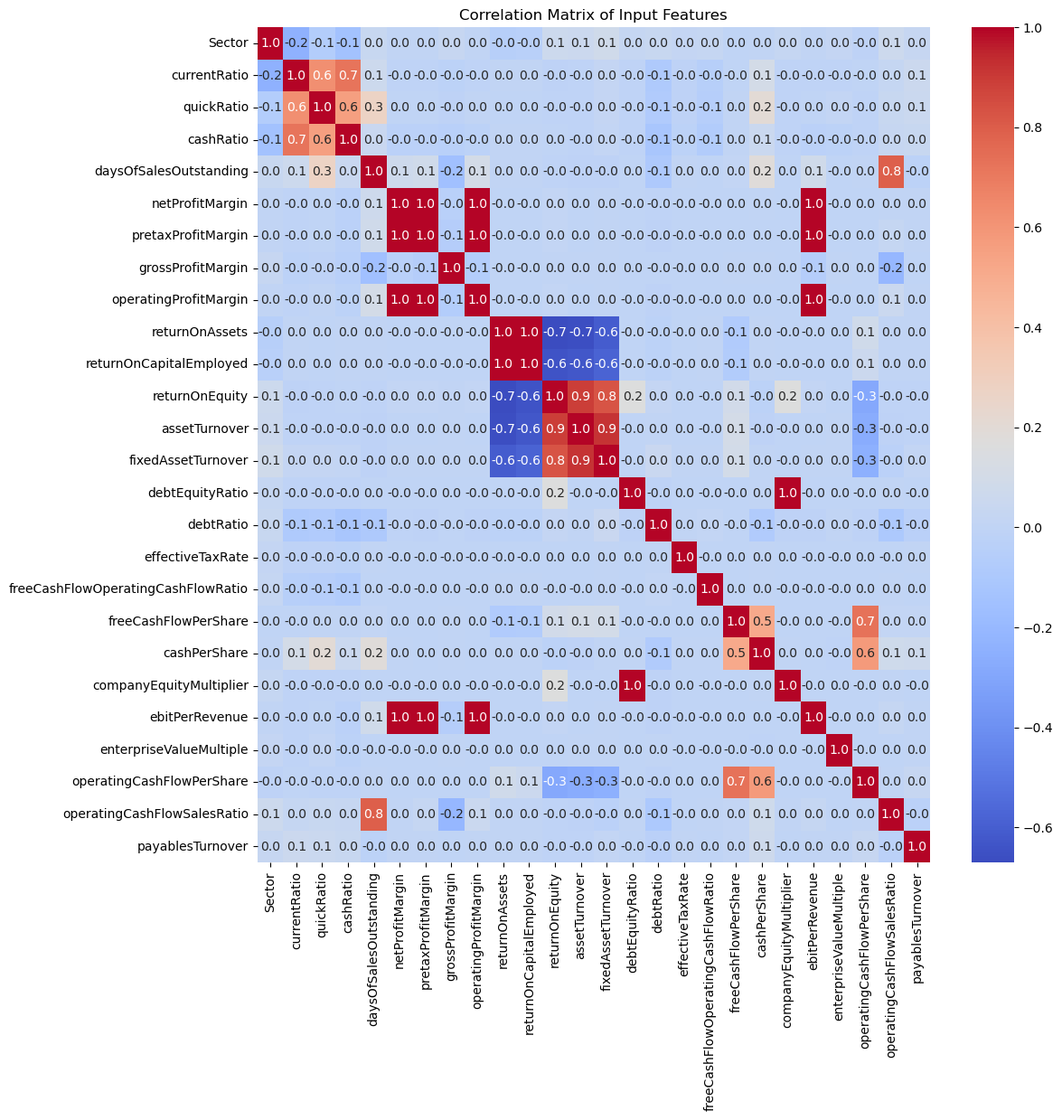
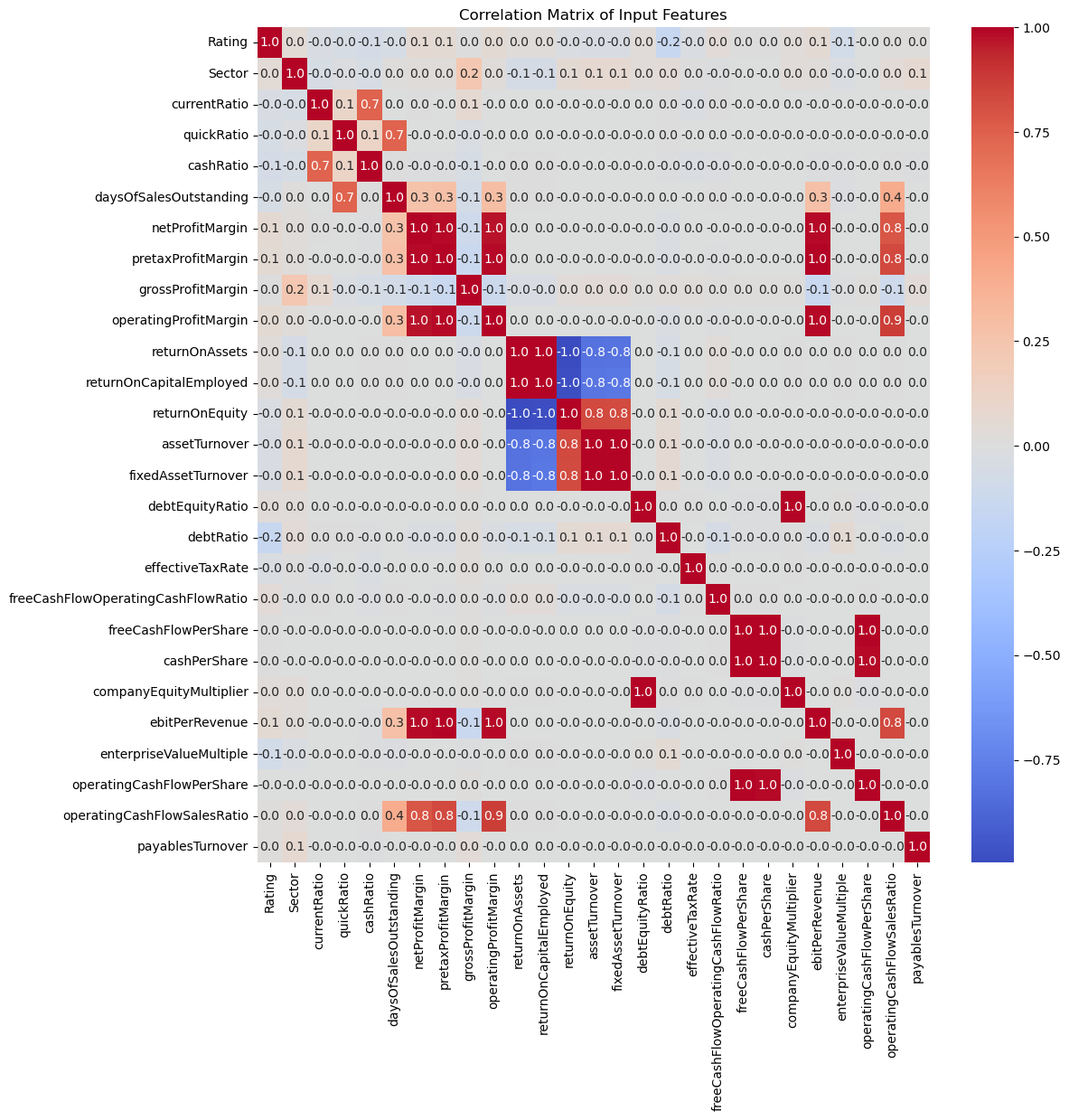
final credit rating

diff --git a/_posts/2024-01-01-credit-rating-forecast.md b/_posts/2024-01-01-credit-rating-forecast.md
@@ -21,19 +21,19 @@ tags:
 [![](https://img.shields.io/badge/GitHub-View_Repository-blue?logo=GitHub)](https://github.com/monishagopalan/credit-rating-forecast)
 
 # Introduction
-Corporate credit ratings, issued by credit rating agencies like Standard and Poor's and Moody's, express the agency's opinion about the ability of a company to meet its debt obligations.  Typically, ratings are expressed as letter grades that range, for example, from ‘AAA’ to ‘D’ to communicate the agency’s opinion of relative level of credit risk.
+Corporate credit ratings, issued by credit rating agencies like Standard & Poor's and Moody's, express the agency's opinion about the ability of a company to meet its debt obligations.  Typically, ratings are expressed as letter grades that range, for example, from ‘AAA’ to ‘D’ to communicate the agency’s opinion of relative level of credit risk. Credit ratings are not absolute measures of Default Probability. For example, a corporate bond that is rated ‘AA’ is viewed by the rating agency as having a higher credit quality than a corporate bond with a ‘BBB’ rating. But the ‘AA’ rating isn’t a guarantee that it will not default, only that, in the agency’s opinion, it is less likely to default than the ‘BBB’ bond.
 
-Credit Ratings are not absolute measures of Default Probability. For example, a corporate bond that is rated ‘AA’ is viewed
-by the rating agency as having a higher credit quality than a corporate bond with a ‘BBB’ rating. But the ‘AA’ rating isn’t a
-guarantee that it will not default, only that, in the agency’s opinion, it is less likely to default than the ‘BBB’ bond.
+Investors and other market participants may use these
+ratings as a screening device to match the relative credit risk of an issuer or individual debt issue with
+their own risk tolerance or credit risk guidelines in making investment and business decisions. For instance, in considering the purchase of a corporate bond, an investor may check to see whether the bond’s credit rating aligns with their acceptable level of credit risk. At the same time, credit ratings may be used by corporations to help them raise money for expansion and/or research and development.
 
-Each agency applies its own methodology to measure creditworthiness and this assessment is an expensive and complicated process. Usually, the agencies take time to provide new ratings and update older ones. This causes delays in decision-making process for investors who use these ratings to assess their credit risk. 
+Each credit rating agency applies its own methodology to measure creditworthiness and this assessment is an expensive and complicated process. Usually, the agencies take time to provide new ratings and update older ones. This causes delays in decision-making process for the investors.
 
-One solution to address delays would be to use the historical financial information of a company to build a predictive quantitative model capable of forecasting the credit rating that a company will receive. In this project, I employ machine learning techniques, creating classification models that quickly forecast credit ratings. 
+One solution to address these delays would be to use the historical financial information of a company to build a predictive quantitative model capable of forecasting the credit rating that a company will receive. In this project, machine learning techniques have been utilized to create classification models capable of rapidly forecasting credit ratings. Machine learning stands out in this context due to its adaptability and ability to capture complex patterns in data, providing a more dynamic and responsive approach compared to traditional quantitative models.
 
 # Dataset
 
-The [Corporate Credit Rating](https://www.kaggle.com/datasets/agewerc/corporate-credit-rating/data) dataset is obtained from Kaggle. The dataset loaded as a pandas dataframe, `ratings_df` consists of 2029 entries (rows) and 31 columns. Each entry represents a big US firm traded on NYSE or Nasdaq. The ratings span the period from 2010 to 2016. The dataset has 593 unique US firms, as seen from `ratings_df.Name.value_counts()`.    
+The [Corporate Credit Rating](https://www.kaggle.com/datasets/agewerc/corporate-credit-rating/data) dataset was obtained from Kaggle. The dataset loaded as a pandas dataframe, `ratings_df`, consists of 2029 entries (rows) and 31 columns. Each entry represents a big US firm traded on NYSE or Nasdaq. The ratings span the period from 2010 to 2016. The dataset has 593 unique US firms, as seen from `ratings_df.Name.value_counts()`.    
 
 ## Credit Ratings
 The target variable is the `Rating` column, representing the credit rating assigned by agencies. Taking a closer look at the list of agencies and their different ratings using `ratings_df['Rating Agency Name'].value_counts()` and `ratings_df.groupby('Rating Agency Name')['Rating'].unique()`:
@@ -42,7 +42,7 @@ The target variable is the `Rating` column, representing the credit rating assig
 
 The dataset shows an imbalance in credit ratings, with varying frequencies for each rating category as it is evident from `ratings_df.Rating.value_counts()`.
 
-In addition, we are working with ratings from different agencies. One way to address this is to simplify and merge the ratings labels according to the following table from [Investopedia: Corporate Credit Ratings](https://www.investopedia.com/terms/c/corporate-credit-rating.asp)
+An additional challenge is that we have ratings from different agencies. This was addressed by simplifying and merging the ratings labels according to the following table from [Investopedia: Corporate Credit Ratings](https://www.investopedia.com/terms/c/corporate-credit-rating.asp)
 
 | Moody's     | Standard & Poor's |  Fitch            |   Grade      | Risk         |
 |-------------|-------------------|-------------------|--------------|--------------|
@@ -54,7 +54,7 @@ In addition, we are working with ratings from different agencies. One way to add
 | Caa/Ca      | CCC/CC/C          | CCC/CC/C          | Junk         | Highest Risk |
 | C           | D                 | D                 | Junk         | In Default   |
 
-Instead of 10 different rating categories, we have now 6 categories. Using a dictionary for the mapping of new ratings and old ratings and `ratings_df['Rating'].map(rating_dict)` we have
+A dictionary was used for the mapping of new ratings and old ratings and `ratings_df['Rating'].map(rating_dict)` and we have regrouped the 10 different rating categories into 6 new categories.
 
 |(New) Rating    | Counts | (Old) Ratings   |
 |----------------|--------|-----------------|
@@ -72,11 +72,11 @@ The categorical variable `Rating` was converted into numerical labels using the 
 ## Input Features
 The other columns in the dataset are the input features related to financial indicators and information about the company. 
 
-The 5 features with the company information such as `Name`, `Symbol` (for trading), `Rating Agency Name`, `Date`, and `Sector` provide context and additional details for analysis but their inclusion in the model may not be necessary for the specific task of credit rating prediction.  However, it is important to include the `Sector` feature in our model is crucial for capturing industry-specific nuances that significantly influence a company's financial performance and risk profile. Different sectors exhibit distinct economic characteristics and respond differently to market conditions. By incorporating the `Sector` variable, we aim to enhance the granularity of our analysis, ensuring that the machine learning model discerns sector-specific trends and challenges.
+The 5 features with the _company information_ such as `Name`, `Symbol` (for trading), `Rating Agency Name`, `Date`, and `Sector` provide context and additional details for analysis but their inclusion in the model may not be necessary for the specific task of credit rating prediction.  However, the `Sector` feature has been included in our model as it is crucial for capturing industry-specific nuances that significantly influence a company's financial performance and risk profile. 
 
-In order to integrate the categorical data `Sector` it into the model, `LabelEncoder` is employed to represent it numerically.
+In order to integrate the categorical data `Sector` into the model, `LabelEncoder` was employed to represent it numerically.
 
-The dataset includes 25 financial indicators that can be categorized into different groups. These financial indicators collectively provide a comprehensive view of a company's financial health and performance, contributing to the evaluation of its creditworthiness.
+The dataset includes 25 _financial indicators_ that can be categorized into different groups. These financial indicators collectively provide a comprehensive view of a company's financial health and performance, contributing to the evaluation of its creditworthiness.
 
 **(I) Liquidity Measurement Ratios**
 These ratios provide insights into a company's short-term financial health and ability to meet its immediate obligations.
@@ -125,25 +125,28 @@ These ratios delve into a company's cash flow dynamics, providing insights into 
 
 ## Descriptive Statistics
 
+The correlation matrix `ratings_df.corr()` was calculated to understand the pairwise correlations between different variables in the dataset. A correlation value close to 1 indicates a strong positive correlation, while a value close to -1 indicates a strong negative correlation. From the figure below, it is seen that the target `Rating` has low correlation with almost all of the input features. It is also observed that companies with higher Return on Equity tend to also have higher Asset Turnover and Fixed Asset Turnover, indicating that they efficiently use their assets, both overall and fixed assets, to generate profits.
+
 ![png](/assets/images/credit-rating/corr-matrix.png)
 
-The function `data.describe()` gives statistical descriptions like `mean`, `min`, `max`, `percentiles` of the numerical financial indicators. Comparison of the mean to the median and examining the range between percentiles, there seems to be an indication of the presence of outliers. 
+The `describe()` function was used to understand the statistical descriptions like `mean`, `min`, `max`, `percentiles` of the numerical financial indicators. Comparison of the mean to the median and examining the range between percentiles indicated the presence of outliers. 
 
-Features exhibit different scales, as evident from the magnitude of mean and standard deviation values. To ensure equal contribution from all features for machine learning algorithms, feature scaling is performed. The Min-Max scaling technique is applied to normalize the numerical values representing financial indicators. 
+Features also exhibit different scales, as evident from the magnitude of mean and standard deviation values. Feature scaling was performed to ensure equal contribution from all features for machine learning algorithms. The Min-Max scaling technique was applied to normalize the numerical values representing financial indicators. 
 
-$x_{scaled} = \frac{x - x_{min}}{x_{max} - x_{min}}$
+$$ x_{scaled} = \frac{x - x_{min}}{x_{max} - x_{min}} $$
 
-For each column, the `MinMaxScaler` function from `sklearn.preprocessing` is used to transform the values into a standardized range between 0 and 1. The values are then multiplied by 1000, to amplify the scaled values. 
+For each column, the `MinMaxScaler` function from `sklearn.preprocessing` was used to transform the values into a standardized range between 0 and 1. The values are then multiplied by 1000, to amplify the scaled values. 
 
-Additionally, a logarithmic transformation is applied to each value using the `np.log10` function, with a small constant (0.01) added to avoid issues with zero values. This dual transformation approach aims to normalize and potentially enhance the interpretability of the financial indicators in the dataset.
+Additionally, a logarithmic transformation was applied to each value using the `np.log10` function, with a small constant (0.01) added to avoid issues with zero values. This dual transformation approach normalizes and potentially enhance the interpretability of the financial indicators in the dataset.
 
-This work in exploring and preparing our dataset, sets the stage for the next phase: deploying different machine learning models to forecast credit ratings. Our problem of corporate credit rating forecast is a supervised multi-class classification task. 
+This work in exploring and preparing our dataset, sets the stage for the next phase: deploying different machine learning models to forecast credit ratings. 
 
+# ML Models and Training
+Our problem of corporate credit rating forecast is a supervised multi-class classification task. 
 
-# ML Models
-We split our input data into training (80%) and test data (20%) using `train_test_split()` from `sklearn.model_selection`. Then we create separate dataframes for the input features (X) and target lables (y). 
+The input data was divided into training and testing sets, using  the `train_test_split()` function from `sklearn.model_selection`. This function  randomly separates the data into two subsets, ensuring that both subsets maintain the distribution of the target variable. The training set, comprising 80% of the data, was used for model training, while the remaining 20% formed the test set for model evaluation. The input features `(X)` and target lables `(y)` are then identified in each set and assigned to separate dataframes.
 
-Various machine learning models are employed to forecast corporate credit ratings. 
+The following machine learning models were employed to forecast corporate credit ratings. 
 
 **1. Logistic Regression:**
 Logistic Regression is a linear model used for binary or multiclass classification. It estimates the probability that a given instance belongs to a particular class. It employs the logistic function (sigmoid) to transform a linear combination of input features into a value between 0 and 1. This output represents the probability of belonging to the positive class. A threshold is applied to make the final classification decision.
@@ -164,49 +167,143 @@ Gradient Boosting is an ensemble learning method that builds a series of weak le
 **6. XGBoost:**
 XGBoost (Extreme Gradient Boosting) is an advanced version of gradient boosting that incorporates regularization and parallel processing, making it highly efficient. Similar to gradient boosting, XGBoost builds a series of trees sequentially. It optimizes a regularized objective function, combining the prediction from each tree. It uses a technique called boosting to strengthen the model iteratively.
 
-The models are then trained on the training dataset `(X_train, y_train)` and evaluated on the test dataset `(X_test, y_test)`. The accuracy of each model is calculated using the `metrics.accuracy_score` function from `scikit-learn`. 
+
+The models were import from their respective standard libraries and initialized with their specific parameters. The models were trained on the training dataset `(X_train, y_train)` using the `.fit()` method and evaluated on the test dataset `(X_test, y_test)` using `.predict()`. The accuracy of each model was calculated using the `metrics.accuracy_score` function from `scikit-learn`. 
+
+```python
+models = {
+    'Logistic Regression': LogisticRegression(random_state=2996 , multi_class='multinomial', solver='newton-cg'),
+    'K-Nearest Neighbors': KNeighborsClassifier(n_neighbors = 4),
+    'Support Vector Machine': svm.SVC(kernel='rbf', gamma= 1.5, C = 4, random_state=2996),
+    'Random Forest':  RandomForestClassifier(random_state=2996),
+    'Gradient Boost': GradientBoostingClassifier(random_state=2996),
+    'XGBoost': xgb.XGBClassifier(objective ='multi:softmax', num_class=4),
+}
+
+predictions = []
+accuracies = []
+
+for model_name, model in models.items():
+    model.fit(X_train, y_train)
+    y_pred = model.predict(X_test)
+    accuracy = metrics.accuracy_score(y_test, y_pred)
+    
+    predictions.append((model_name, y_pred))
+    accuracies.append((model_name, accuracy))
+    print(f"{model_name} Accuracy: {accuracy}")
+```
+
 
 ## SMOTE
-The Synthetic Minority Over-sampling Technique (SMOTE) is employed to address the issue of class imbalance in the training dataset. The training dataset is characterized by a disproportionate representation of certain credit rating classes as seen from `y_train.value_counts()`, and this can lead to biased model predictions. The SMOTE algorithm is applied to generate synthetic instances of the minority class, thereby balancing the distribution of ratings. By doing so, it ensures that the machine learning models are exposed to a more representative training set, enhancing their ability to generalize and make accurate predictions across different credit rating categories. The resulting distribution of ratings in the resampled training set demonstrates the effectiveness of SMOTE in mitigating class imbalance. Now, we train the models again with the resampled dataset `(X_train_resampled, y_train_resampled)` and evaluate it on `(X_test, y_test)`. 
+
+The Synthetic Minority Over-sampling Technique (SMOTE) was applied in an attempt to address the issue of class imbalance observed in the training dataset, as indicated by `y_train.value_counts()`. This imbalance could potentially introduce bias in the model predictions.  The SMOTE algorithm, implemented through the SMOTE function from the imblearn.over_sampling library, was utilized to create synthetic instances of the minority class, effectively balancing the distribution of ratings. 
+
+Following this, the models were trained with the resampled dataset `(X_train_resampled, y_train_resampled)` and evaluated on the`(X_test, y_test)`. 
 
 ![Accuracy by Model with and without SMOTE](/assets/images/credit-rating/smote-accuracy.png)
 
-It is observed that the accuracy slightly decreased after employing SMOTE. This phenomenon could be attributed to the introduction of synthetic samples, potentially leading to increased noise and complexity in the dataset. Moreover, the choice of sampling strategy in SMOTE, such as `'auto'`, might have not been optimal for our problem. Alternative methods, including undersampling or experimenting with different SMOTE sampling strategies, could be considered. Keeping in mind that the decision to use or omit SMOTE is usually guided by a comprehensive analysis of the specific dataset characteristics and the performance trade-offs associated with different sampling techniques, we can omit SMOTE resampling in our case.
+It was observed that the accuracy slightly decreased after employing SMOTE. This phenomenon could be attributed to the introduction of synthetic samples, potentially leading to increased noise and complexity in the dataset. Moreover, the choice of sampling strategy in SMOTE, `'auto'`, might have not been optimal for our problem. Alternative methods, including undersampling or experimenting with different SMOTE sampling strategies, could be considered. For the current scope of the project, SMOTE resampling has been omitted.
 
 ## Hyperparameter Optimisation
-We perform hyperparameter optimization for the XGBoost model. 
+Hyperparameter optimization was performed for the XGBoost model. 
 
-`RandomizedSearchCV` is a method for hyperparameter tuning that explores a defined number of random combinations of hyperparameters. In our case `n_iter=15` and it searches through 15 different combinations. `StratifiedKFold` is employed for cross-validation. It ensures that each fold preserves the same distribution of target classes as the entire dataset, which is crucial for maintaining the representation of different credit ratings in each fold.  
+`RandomizedSearchCV` is a method for hyperparameter tuning that explores a defined number of random combinations of hyperparameters. A parameter grid `xgb_params` was defined with XGBoost hyperparameters such as learning rate, number of estimators, maximum depth, minimum child weight, subsample, and colsample by tree. The `n_iter` was set to 15 and the search was performed through 15 different combinations. The `StratifiedKFold` was employed for cross-validation. It ensures that each fold preserves the same distribution of target classes as the entire dataset, which is crucial for maintaining the representation of different credit ratings in each fold.  
 
-`xgb_params` defines a grid of hyperparameters to search through. XGBoost parameters such as learning rate, number of estimators, maximum depth, minimum child weight, subsample, and colsample by tree are considered. The metric used for evaluation is accuracy `(scoring='accuracy')`. The search is parallelized `(n_jobs=-1)`, making use of all available CPU cores. The model is fitted to the training data to identify the best hyperparameters. The best model with optimal hyperparameters is then extracted from the search results. Finally, the best model is evaluated on the test set, and the accuracy is noted.
+The metric used for evaluation was accuracy `(scoring='accuracy')`. The search was parallelized `(n_jobs=-1)`, making use of all available CPU cores. The model was fitted to the training data to identify the best hyperparameters. The best model with optimal hyperparameters was then extracted from the search results. Finally, the best model was evaluated on the test set, and the accuracy was noted.
 
+```python
+xgb_params = {
+        'learning_rate': [0.01, 0.1, 0.2],
+        'n_estimators': [100, 200, 300],
+        'max_depth': [3, 5, 7],
+        'min_child_weight': [1, 3, 5],
+        'subsample': [0.8, 0.9, 1.0],
+        'colsample_bytree': [0.8, 0.9, 1.0]
+    },
+ 
+# Create StratifiedKFold for cross-validation
+cv = StratifiedKFold(n_splits=5, shuffle=True, random_state=2996)
+
+# Create RandomizedSearchCV
+random_search = RandomizedSearchCV(
+    estimator= xgb.XGBClassifier(objective ='multi:softmax', num_class=4),
+    param_distributions=xgb_params,
+    n_iter=15,  
+    scoring='accuracy',
+    n_jobs=-1,
+    cv=cv,
+    random_state=2996
+)
+
+# Fit the model to find the best hyperparameters
+random_search.fit(X_train, y_train)
+
+# Get the best model with optimal hyperparameters
+best_model = random_search.best_estimator_
+
+# Evaluate the model on the test set
+best_y_pred = best_model.predict(X_test)
+best_accuracy = metrics.accuracy_score(y_test, best_y_pred)
+```
+The accuracy after hyperparameter optimisation for the XGBoost  **0.69**, was found to be very close to the initial model accuracy of **0.70**.
 
 # Results
 
+XGBoost and Random Forest exhibited the highest accuracies, with Gradient Boosting closely following. On the other hand, Logistic Regression showed comparatively lower performance in terms of accuracy.
+
 ![Accuracy by Model](/assets/images/credit-rating/accuracy-model.png)
 
-The `classification_report` provides a comprehensive summary of key classification metrics, including accuracy, precision, recall, and F1 score. 
-
-- **Accuracy** reflects the overall correctness of the model's predictions. 
-- **Precision** measures the proportion of true positive predictions among instances predicted as positive, highlighting the model's ability to avoid false positives. 
-- **Recall** gauges the model's effectiveness in capturing true positives among all actual positive instances. 
-- **F1 score** balances precision and recall, providing a single metric that considers both false positives and false negatives. 
-
-
-`confusion_matrix` provides insights into the performance of a classification model. It helps to understand the distribution of true positive, true negative, false positive, and false negative predictions. This information aids in assessing the model's ability to correctly classify instances into different credit rating categories.
+The distribution of true positive, true negative, false positive, and false negative predictions were observed from the `confusion_matrix`.
 
 ![Confusion Matrix](/assets/images/credit-rating/confusion-matrix.png)
 
-The feature importance plot for XGBoost illustrates the contribution of each input feature to the model's decision-making process. This is particularly useful in understanding which financial indicators or ratios play a significant role in predicting credit ratings. Analyzing feature importance guides financial analysts and stakeholders in focusing on key metrics that heavily influence the model's predictions.
+A summary of key classification metrics, including accuracy, precision, recall, and F1 score was obtained using `classification_report` from `sklearn.metrics`
+
+
+- **Accuracy** reflects the overall correctness of the model's predictions. 
+
+    $$\frac{TP + TN}{TP + TN + FP + FN} $$
+    where 
+
+    _True Positive (TP)_: The number of instances correctly predicted as positive.\
+    _True Negative (TN)_: The number of instances correctly predicted as negative.\
+    _False Positive (FP)_: The number of instances wrongly predicted as positive (Type I error).\
+    _False Negative (FN)_: The number of instances wrongly predicted as negative (Type II error).
+
+- **Precision** measures the proportion of true positive predictions among instances predicted as positive, highlighting the model's ability to avoid false positives. High precision indicates a low rate of false positives.
+$$ \frac{TP}{TP + FP} $$
+- **Recall** gauges the model's effectiveness in capturing true positives among all actual positive instances. High recall indicates a low rate of false negatives.
+$$ \frac{TP}{TP + FN}$$
+- **F1 score** is the harmonic mean of precision and recall, providing a single metric that considers both false positives and false negatives. F1-score values range from 0 to 1, and higher values indicate better balance between precision and recall.
+
+Each row in the classification report corresponds to a specific class, and the **support** column indicates how many instances in the dataset belong to that class. The overall performance is best on the Medium Risk Class and worst on the Highest Risk Class, and this could be related to the imbalance in the input dataset.
+
+
+|    Class    | precision |  recall | f1-score|  support|
+|-------------|-----------|--------|---------|---------|
+| Medium Risk |  0.74  |    0.81  |    0.77   |    156  |
+| Highest Risk|  0.50  |    0.10  |   0.17    |    20   |
+| Low Risk    |  0.69  |    0.71  |    0.70   |     93  |
+| High Risk   |  0.68  |    0.67  |    0.67   |    136  |
+
+
+The contribution of each input feature to the XGBoost model's decision-making process is visualized through the feature importance plot. This helps in understanding which financial indicators play a significant role in predicting credit ratings.
+
+It was observed that the features Effective Tax Rate, Enterprise Value Multiple, Cash per Share might have a stronger relationship with credit ratings. And the financial indicators Company Equity Multiplier, Return on Capital Employed, Return on Assets might have less impact on predicting credit ratings in this dataset.
+
 
 ![Feature Importance](/assets/images/credit-rating/feature-importance.png)
 
+# Applications
+The classification methods implemented in this project can be extended to predict Environmental, Social, and Governance (ESG) Ratings that assess a company's performance and behavior in key areas related to sustainability and ethical practices. ESG ratings are primarily used by investors to evaluate the sustainability of a company’s business model and assess its long-term objectives.
+
+These classification algorithms are equally valuable for analyzing historical stock data. By predicting whether a stock price will increase, decrease, or remain stable, investors gain valuable insights to make well-informed decisions in the dynamic stock market environment.
 
 # References
 
 1. Parisa Golbayani, Ionuţ Florescu, Rupak Chatterjee: A comparative study of forecasting corporate credit ratings using neural networks, support vector machines, and decision trees. _The North American Journal of Economics and Finance,
-Volume 54, 2020_, https://doi.org/10.1016/j.najef.2020.101251.
+Volume 54, 2020_, [DOI](https://doi.org/10.1016/j.najef.2020.101251)
 
-2. https://www.kaggle.com/datasets/agewerc/corporate-credit-rating/
+2. [Kaggle Datasets: Corporate Credit Rating](https://www.kaggle.com/datasets/agewerc/corporate-credit-rating/)
 
-3. [Guide to Credit Rating Essentials](https://www.google.com/url?sa=t&rct=j&q=&esrc=s&source=web&cd=&cad=rja&uact=8&ved=2ahUKEwje_Nn6i72DAxWN8gIHHbgjDfAQFnoECBcQAQ&url=https%3A%2F%2Fwww.spglobal.com%2Fratings%2F_division-assets%2Fpdfs%2Fguide_to_credit_rating_essentials_digital.pdf&usg=AOvVaw1eCCN2ZJXYlPuBycn7-Rmi&opi=89978449)
+3. [S&P Global: Guide to Credit Rating Essentials](https://www.google.com/url?sa=t&rct=j&q=&esrc=s&source=web&cd=&cad=rja&uact=8&ved=2ahUKEwje_Nn6i72DAxWN8gIHHbgjDfAQFnoECBcQAQ&url=https%3A%2F%2Fwww.spglobal.com%2Fratings%2F_division-assets%2Fpdfs%2Fguide_to_credit_rating_essentials_digital.pdf&usg=AOvVaw1eCCN2ZJXYlPuBycn7-Rmi&opi=89978449)

diff --git a/_pages/home.md b/_pages/home.md
@@ -6,18 +6,20 @@ read_time: false
 
 ---
 
-I am Monisha Gopalan, 27 years old, orginally from India, currently living in Italy. I hold **dual master's** degrees in STEM, having earned my Bachelor of Science (Research) degree from the esteemed **Indian Institute of Science**, a university consistently [ranked #1](https://www.nirfindia.org/2023/ResearchRanking.html) in India for its research contributions. Securing a place in their highly interdisciplinary program stands as a significant achievement, considering that only 120 out of 1.5 million high school graduates attain this distinction. Following the completion of my Master's degree in Materials Science at the same institution, I relocated to Italy to pursue a Master's in Physics at the **University of Padova**.
+I am Monisha Gopalan, 27 years old, originally from India, currently living in Italy. I hold **dual master's** degrees in STEM, having earned my Bachelor of Science (Research) degree from the esteemed **Indian Institute of Science**, a university consistently [ranked #1](https://www.nirfindia.org/2023/ResearchRanking.html) in India for its research contributions. Securing a place in their highly interdisciplinary program stands as a significant achievement, considering that only 120 out of 1.5 million high school graduates attain this distinction. Following the completion of my Master's degree in Materials Science at the same institution, I relocated to Italy to pursue a Master's in Physics at the **University of Padova**.
 
 <a href="/assets/documents/AI_Scientist_Monisha_Gopalan_Resume.pdf" >Resume</a>{: .btn .btn--info} [Portfolio](projects.md){: .btn .btn--info} 
 {: .text-center}
 
-Characterizing myself as inherently curious and quick to grasp new concepts, I consider my ability to delve to the core of a problem/concept my greatest strength. Having had the opportunity to study abstract mathematical courses like Topology and Group Theory and advanced physics courses like Quantum Field Theory and General Relativity, I find satisfaction in understanding phenomena through mathematical explanations. I adopt a critical approach to learning by posing questions to myself and scrutinizing alternatives. My enthusiasm extends to the interdisciplinary nature of knowledge, appreciating how concepts from different domains can be harnessed to solve a particular problem. My recent role as an AI Scientist, where I worked on Deep Learning methods for Portfolio Optimisation, got me really excited about the opportunities to use my skills in Quantitative Finance and Data Science. 
+Characterizing myself as inherently curious and quick to grasp new concepts, I consider my ability to delve to the core of a problem/concept my greatest strength. Having had the opportunity to study abstract mathematical courses like Topology and Group Theory and advanced physics courses like Quantum Field Theory and General Relativity, I find satisfaction in understanding phenomena through mathematical explanations. I adopt a critical approach to learning by posing questions to myself and scrutinizing alternatives. My enthusiasm extends to the interdisciplinary nature of knowledge and I highly appreciate how concepts from different domains can be harnessed to solve a particular problem. I am fascinated by the dynamic world of programming and it has been a consistent companion throughout my academic journey. 
+
+My recent role as an AI Scientist, where I worked on Deep Learning methods for Portfolio Optimisation, got me really excited about the opportunities to use my skills in Quantitative Finance and Data Science. 
 
 ## Career Objectives
 
 While my initial inclination was towards academia and research, my perspective has evolved, and I now recognize similar and more impactful opportunities in the industry that align with my goals. I am eager to channel my skills and knowledge into endeavors where I can contribute meaningfully. 
 
-> I am actively seeking opportunities in Europe, starting in February 2023, for roles such as Data Scientist, Quantitative Analyst and other similar positions in the fields of finance and data science.
+> I am actively seeking opportunities in Europe, starting in February 2024, for roles such as Data Scientist, Quantitative Analyst and other similar positions in the fields of finance and data science.
 
 ## Hobbies
 

diff --git a/_posts/2024-01-01-smote.md b/_posts/2024-01-01-smote.md
@@ -18,7 +18,7 @@ tags:
 
 An **imbalanced dataset** refers to a scenario in which the distribution of classes within the dataset is significantly uneven. In the context of classification problems, this imbalance arises when the number of instances or samples belonging to one class substantially outweighs the number of instances in another class or classes. The _majority class_ overwhelms the _minority class_ which is relatively a small proportion of the dataset.
 
-Considering an example from the corporate credit rating prediction project. Certain ratings like 'Highest Risk' or 'Low Risk' are underrepresented. 
+Consider an example from the [Corporate Credit Rating Prediction Project]({% post_url 2024-01-01-credit-rating-forecast %}) . As seen from the figure below, certain ratings like 'Highest Risk' or 'Low Risk' are underrepresented. 
 
 ![Imbalance in Corporate Credit Rating Dataset](/assets/images/credit-rating/new-rating-distribution.png)
 
@@ -48,7 +48,7 @@ We have 3 classes in the dataset: Class A and Class B are the majority classes a
 
 Consider a minority class instance $C_{1}$. SMOTE randomly selects another minority class instance $C_{2}$ and generates a synthetic instance $C_{new}$ using the formula:
 
-$ C_{new} = C_{1} + \lambda (C_{2} - C_{1}) $
+$$ C_{new} = C_{1} + \lambda (C_{2} - C_{1}) $$
 
 Here, $ \lambda $ is a random number between 0 and 1, determining the position of the synthetic instance along the line connecting $C_{1}$ and $C_{2}$. This process is repeated until the desired balance is achieved.
 
@@ -70,7 +70,7 @@ X_train_resampled, y_train_resampled = smote.fit_resample(X_train, y_train)
 
 Now, `X_train_resampled` and `y_train_resampled` contain the oversampled data, ready to be used in training your machine learning model.
 
-In conclusion, SMOTE is a valuable tool for handling imbalanced datasets, ensuring a fair representation of all classes and improving the overall performance and fairness of machine learning models.
+In conclusion, SMOTE is a valuable tool for handling imbalanced datasets, ensuring a fair representation of all classes and helps in improving the overall performance and fairness of machine learning models.
 
 ## References
 

diff --git a/_pages/projects.md b/_pages/projects.md
@@ -17,8 +17,7 @@ permalink: /projects/
 
 - **Applications** The insights gained can aid financial analysts, investors, and companies in making more informed and quick decisions related to credit risk. The classification methods used here can also be used to forecast other ratings like ESG Ratings.
 
-- **Skills developed** Explored classification methods like XGBoost, RandomForest and techniques to address imbalance in datasets.
-[SMOTE Analysis]({% post_url 2024-01-01-smote %}) Also delved into Financial Ratios gaining knowledge on understanding a company's fiscal strength.
+- **Skills developed** Explored classification methods like XGBoost, RandomForest and techniques to address imbalance in datasets - [SMOTE]({% post_url 2024-01-01-smote %}). Also delved into Financial Ratios gaining knowledge on understanding a company's fiscal strength.
 
 # Stock Market Index Prediction using LSTM
 [![](https://img.shields.io/badge/GitHub-View_Repository-blue?logo=GitHub)](https://github.com/monishagopalan/market-index-prediction) [![Blog Post](https://img.shields.io/badge/Blog-Read%20Now-brightgreen)](Your_Blog_Post_Link)
